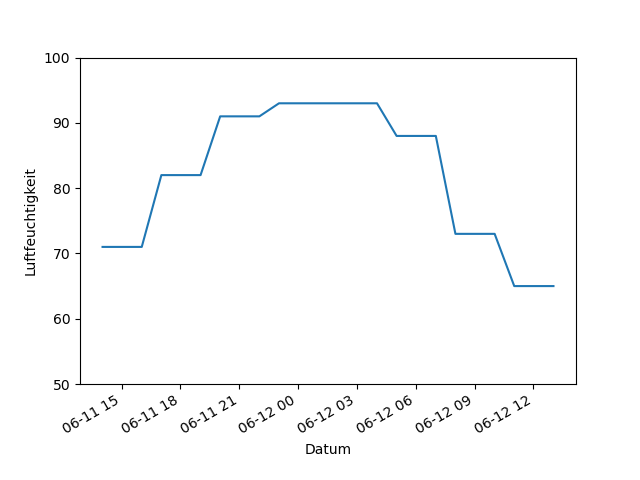
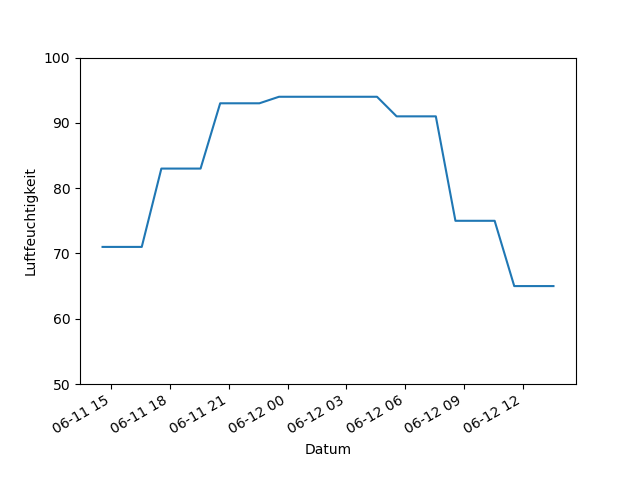
*Updated Paths

diff --git a/GuiWeatherAppRaspberry.py b/GuiWeatherAppRaspberry.py
@@ -7,6 +7,7 @@ import WetterDaten_auslesen_forecast_R
 import WetterDaten_auslesen_R
 
 apiKey = "a0a71936f344fc6622a1d440a1ee726b"
+city_name = "Burgrieden"
 
 class App(QWidget):
 
@@ -19,8 +20,8 @@ class App(QWidget):
             self.height = 480                
             self.loopctr = 0
             self.loopTimer = QTimer()
-            self.modelAktuell = WetterDaten_auslesen_R.WeatherDataAktuell()
-            self.modelForecast = WetterDaten_auslesen_forecast_R.WetterDatenForecast('Biberach',apiKey)
+            self.modelAktuell = WetterDaten_auslesen_R.WeatherDataAktuell(city_name,apiKey)
+            self.modelForecast = WetterDaten_auslesen_forecast_R.WetterDatenForecast(city_name,apiKey)
             self.initUI()
             self.modelAktuell.updatePaths()
             self.modelForecast.updatePaths()

diff --git a/WetterDaten_auslesen_R.py b/WetterDaten_auslesen_R.py
@@ -4,7 +4,7 @@ import urllib.request
 import time
 from PIL import Image, ImageDraw, ImageFont
 apiKey = "a0a71936f344fc6622a1d440a1ee726b"
-StadtName = "Hochdorf"
+StadtName = "Burgrieden"
 
 
 def url_builder( StadtName, apiKey):
